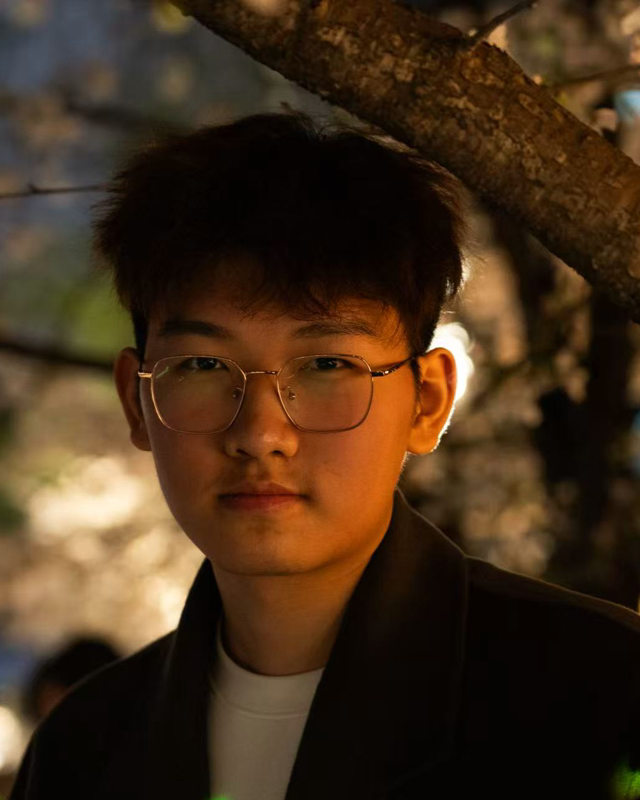
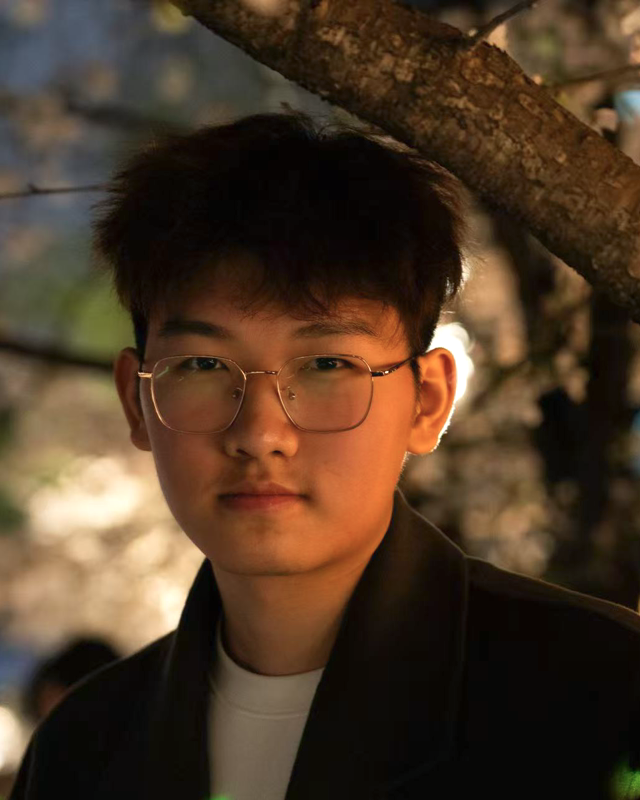
Update portrait with natural retouch and preserve 4:5 framing

Changed region(s): [[0.4062, 0.375, 0.7188, 0.75], [0.1875, 0.5625, 0.3125, 0.7188], [0.9688, 0.9688, 1.0, 1.0]]

diff --git a/site/index.html b/site/index.html
@@ -124,6 +124,7 @@
   </style>
   <link rel="stylesheet" href="assets/theme.css">
   <link rel="stylesheet" href="assets/navigation.css?v=1">
+  <link rel="stylesheet" href="assets/portrait.css?v=1">
 </head>
 <body>
 <!--
@@ -143,7 +144,7 @@ FINISH: unreviewed and undocumented is unfinished; this build ends with the fini
   </header>
   <main id="main" tabindex="-1">
     <div class="bio">
-      <img class="portrait" src="assets/portrait.png" alt="Yu He" width="640" height="800" fetchpriority="high">
+      <img class="portrait" src="assets/portrait.png?v=retouch1" alt="Yu He" width="640" height="800" fetchpriority="high">
       <div class="bio-copy">
         <p class="identity">I am a final-year undergraduate at <a href="https://www.nju.edu.cn/">Nanjing University</a>, studying <a href="https://ise.nju.edu.cn/en/index.htm">Intelligent Software Engineering</a>.</p>
         <p class="research-lead">I am interested in building AI systems that <strong>learn and improve continually</strong> from <strong>data, experience, and human feedback</strong>.</p>

diff --git a/site/assets/portrait.css b/site/assets/portrait.css
@@ -1,0 +1,7 @@
+/* Preserve the approved 4:5 portrait framing at every screen size. */
+.bio { grid-template-columns:192px minmax(0,1fr); }
+.portrait { width:192px; height:240px; border-radius:12px; object-fit:contain; object-position:center; border-width:1px; }
+@media (max-width:640px) {
+  .bio { grid-template-columns:112px minmax(0,1fr); }
+  .portrait { width:112px; height:140px; border-radius:8px; }
+}
